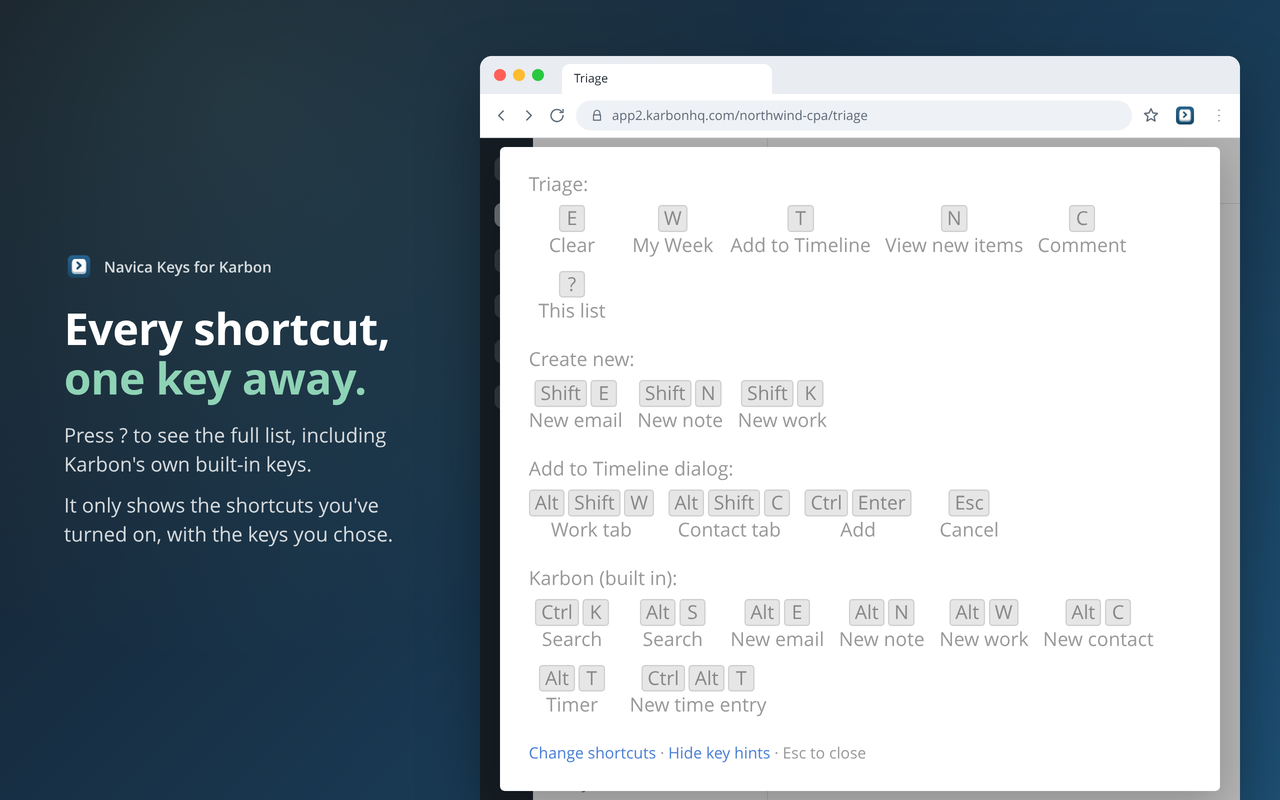
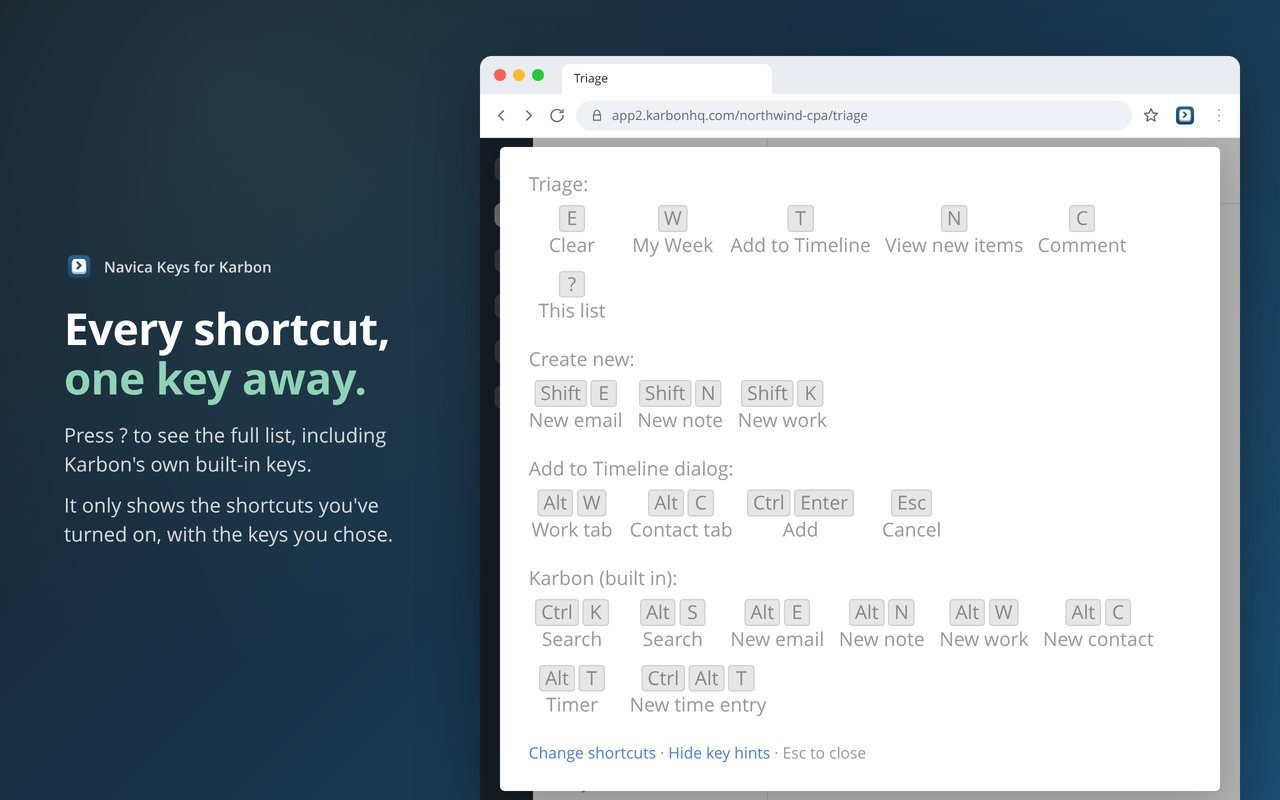
Put reply chips inside their buttons, dim toolbar chips under dialogs, Alt+W/C dialog tabs
- Reply, Reply to All and Forward show their key chip at the end of the button.
- Toolbar chips in the floating layer dim with Karbon's dialog backdrop (or hide
  under anything solid), since Karbon's dialogs sit below that layer.
- Add to Timeline Work/Contact tab keys are now Alt+W / Alt+C (settings v6
  migrates the old Alt+Shift defaults).
- 0.9.3; store listing record, docs and screenshots updated.

Changed region(s): [[0.4062, 0.5938, 0.7812, 0.6875]]

diff --git a/src/content.js b/src/content.js
@@ -310,6 +310,11 @@ const STYLE = `
 }
 .ktk-key--under .ktk-cap { min-width: 13px; padding: 0 3px; }
 .ktk-key--inline { margin: 0 0 0 6px; vertical-align: middle; }
+/* Reply / Reply to All / Forward: chip at the end of the button. The icon-only
+   buttons are a fixed 32px square, so let them grow to fit it. */
+.ktk-key--button { gap: 1px; font-size: 10px; line-height: 13px; }
+.ktk-key--button .ktk-cap { min-width: 13px; padding: 0 3px; }
+[data-e2e^="button__triageStickyMenu__"]:has(> .ktk-key--button) { width: auto; padding: 0 8px; gap: 6px; }
 /* Create new (+) menu: chip at the right edge, before Karbon's own Alt hint. */
 .ktk-key--menu { order: 1; margin-left: auto; }
 [role="menuitem"]:has(> .ktk-key--menu) > [data-slot="dropdown-menu-shortcut"] { order: 2; margin-left: 8px; }
@@ -357,9 +362,10 @@ const HINT_TARGETS = {
   saveToLater: [() => toolbarButton(SELECTORS.saveToLaterButton), 'after', 'toolbar'],
   reminder: [() => toolbarButton(SELECTORS.reminderButton), 'after', 'toolbar'],
   assign: [() => toolbarButton(SELECTORS.assignButton), 'after', 'toolbar'],
-  reply: [() => toolbarButton(SELECTORS.replyButton), 'after', 'toolbar'],
-  replyAll: [() => toolbarButton(SELECTORS.replyAllButton), 'after', 'toolbar'],
-  forward: [() => toolbarButton(SELECTORS.forwardButton), 'after', 'toolbar'],
+  // Reply/Forward are plain <button>s, so the chip sits inside, at the end.
+  reply: [() => toolbarButton(SELECTORS.replyButton), 'inside', 'button'],
+  replyAll: [() => toolbarButton(SELECTORS.replyAllButton), 'inside', 'button'],
+  forward: [() => toolbarButton(SELECTORS.forwardButton), 'inside', 'button'],
   comment: [() => toolbarButton(SELECTORS.commentButton), 'after', 'toolbar'],
   addToWeek: [() => document.querySelector(SELECTORS.addToWeekButton), 'after', 'inline'],
   addToNextWeek: [() => document.querySelector(SELECTORS.addToWeekButton), 'after', 'inline'],
@@ -411,6 +417,26 @@ function chipRunAfter(target) {
   return run;
 }
 
+// The layer sits above Karbon's page, so a Karbon dialog's backdrop doesn't
+// cover the chips. Look at what's stacked over the button's centre: dim the
+// chip by any see-through backdrop there, and hide it under anything solid.
+function shadeLikeTarget(chip, target, rect) {
+  let shade = 1;
+  let covered = false;
+  const hits = document.elementsFromPoint(rect.left + rect.width / 2, rect.top + rect.height / 2);
+  for (const el of hits) {
+    if (el === target || el.contains(target)) break;
+    if (target.contains(el)) continue;
+    const alpha = Number(getComputedStyle(el).backgroundColor.match(/[\d.]+/g)?.[3] ?? 1);
+    if (alpha >= 1) { covered = true; break; }
+    shade *= 1 - alpha;
+  }
+  const filter = shade < 1 ? `brightness(${shade.toFixed(2)})` : '';
+  const visibility = covered ? 'hidden' : '';
+  if (chip.style.filter !== filter) chip.style.filter = filter;
+  if (chip.style.visibility !== visibility) chip.style.visibility = visibility;
+}
+
 function chipLayer() {
   let layer = document.querySelector('.ktk-layer');
   if (!layer) {
@@ -433,6 +459,7 @@ function placeUnderChip(id, target) {
     layer.append(chip);
   }
   setKeys(chip, settings.shortcuts[id].binding);
+  shadeLikeTarget(chip, target, rect);
   const left = `${Math.round(rect.left + rect.width / 2)}px`;
   const top = `${Math.round(rect.bottom - 3)}px`;
   if (chip.style.left !== left) chip.style.left = left;

diff --git a/src/shared.js b/src/shared.js
@@ -33,8 +33,8 @@
     { id: 'newEmail', short: 'New email', group: 'create', label: 'New email', binding: 'E', enabled: true, hint: true },
     { id: 'newNote', short: 'New note', group: 'create', label: 'New note', binding: 'N', enabled: true, hint: true },
     { id: 'newWork', short: 'New work', group: 'create', label: 'New work', binding: 'K', enabled: true, hint: true },
-    { id: 'workTab', short: 'Work tab', group: 'dialog', label: 'Switch to the Work tab', binding: 'Alt+Shift+w', enabled: true, hint: true },
-    { id: 'contactTab', short: 'Contact tab', group: 'dialog', label: 'Switch to the Contact tab', binding: 'Alt+Shift+c', enabled: true, hint: true },
+    { id: 'workTab', short: 'Work tab', group: 'dialog', label: 'Switch to the Work tab', binding: 'Alt+w', enabled: true, hint: true },
+    { id: 'contactTab', short: 'Contact tab', group: 'dialog', label: 'Switch to the Contact tab', binding: 'Alt+c', enabled: true, hint: true },
     { id: 'dialogAdd', short: 'Add', group: 'dialog', label: 'Add', binding: 'Ctrl+Enter', enabled: true, hint: true },
     { id: 'dialogCancel', short: 'Cancel', group: 'dialog', label: 'Cancel', binding: 'Escape', enabled: true, hint: true, fixed: true },
   ];
@@ -72,7 +72,7 @@
   // Defaults that changed: a saved binding still equal to the old default
   // moves to the new one (so people who never changed it get the fix).
   // A migration is { id: [oldDefault, newDefault] } or a function of the settings.
-  const SETTINGS_VERSION = 5;
+  const SETTINGS_VERSION = 6;
   const MIGRATIONS = {
     2: { reply: ['r', 'R'], replyAll: ['R', 'r'], workTab: ['Alt+w', 'Alt+Shift+w'], contactTab: ['Alt+c', 'Alt+Shift+c'] },
     // E archives in Gmail, Outlook and Superhuman; # deletes in Gmail.
@@ -86,6 +86,9 @@
     5: (s) => {
       for (const id of ['newEmail', 'newNote', 'newWork']) if (s.shortcuts?.[id]) s.shortcuts[id].hint = true;
     },
+    // 0.9.3: the dialog tabs drop Shift. Karbon's Alt+W/Alt+C (New work/contact)
+    // are only taken over while the Add to Timeline dialog is open.
+    6: { workTab: ['Alt+Shift+w', 'Alt+w'], contactTab: ['Alt+Shift+c', 'Alt+c'] },
   };
 
   const DEFAULTS = {

diff --git a/store/screenshots/frame.js b/store/screenshots/frame.js
@@ -42,6 +42,10 @@ const EMAILS = [
 
 function triage(s) {
   const btn = (id, icon) => `<span class="btn">${svg(I[icon])}${id && shows(s, id) ? chip(chipText(s, id), 'under') : ''}</span>`;
+  // Reply / Reply All / Forward carry their chip inside the button, like content.js.
+  const endBtn = (id, icon) => shows(s, id)
+    ? `<span class="btn btn--end">${svg(I[icon])}${chip(chipText(s, id), 'button')}</span>`
+    : btn(id, icon);
   const rows = EMAILS.map(([who, when, sub, snip], i) =>
     `<div class="row${i === 0 ? ' on' : ''}"><div class="who"><b>${who}</b><span>${when}</span></div><div class="sub">${sub}</div><div class="snip">${snip}</div></div>`).join('');
   const week = shows(s, 'addToWeek') ? chip(chipText(s, 'addToWeek'), 'inline') : '';
@@ -52,7 +56,7 @@ function triage(s) {
       <div class="new">View 3 new items${shows(s, 'viewNew') ? chip(chipText(s, 'viewNew'), 'inline') : ''}</div>${rows}</div>
     <div class="read">
       <div class="etools">${btn('assign', 'assign')}${btn('reminder', 'reminder')}${btn('saveToLater', 'later')}${btn('addToTimeline', 'work')}${btn('clear', 'clear')}
-        <span class="gap"></span>${btn('reply', 'reply')}${btn('replyAll', 'replyAll')}${btn('forward', 'forward')}${btn('comment', 'comment')}</div>
+        <span class="gap"></span>${endBtn('reply', 'reply')}${endBtn('replyAll', 'replyAll')}${endBtn('forward', 'forward')}${btn('comment', 'comment')}</div>
       <div class="mail"><h1>Q3 payroll documents for review</h1>
         <div class="from"><span class="av">DW</span><div><b>Dana Whitfield</b><small>to Bookkeeping · 9:41 AM</small></div></div>
         <div class="tray"><span>Northwind Bakery</span><span>·</span><a>Add to My Week${week}</a></div>

diff --git a/store/screenshots/shot3-timeline.html b/store/screenshots/shot3-timeline.html
@@ -11,7 +11,7 @@
   <p>Press T to open Add to Timeline with the search ready. Type a client or work name and add it without reaching for the mouse.</p>
   <p>Switch between Work and Contact from the keyboard, even while you type.</p>
 </div>
-<div class="browser" data-tab="Triage" data-url="app2.karbonhq.com/northwind-cpa/triage" data-scene="triage" data-overlay="dialog" data-off="dialogAdd" data-keys="workTab:w contactTab:c"></div>
+<div class="browser" data-tab="Triage" data-url="app2.karbonhq.com/northwind-cpa/triage" data-scene="triage" data-overlay="dialog" data-off="dialogAdd"></div>
 <script src="../src/shared.js"></script>
 <script src="frame.js"></script>
 </body>

diff --git a/store/screenshots/shots.css b/store/screenshots/shots.css
@@ -56,6 +56,7 @@ body { position:relative; font:16px/1.45 system-ui, -apple-system, "Segoe UI", s
 .etools { display:flex; align-items:center; gap:4px; padding:10px 16px 14px; border-bottom:1px solid var(--line); }
 .etools .gap { flex:1; }
 .btn { position:relative; width:32px; height:30px; display:grid; place-items:center; border-radius:6px; }
+.btn--end { width:auto; display:flex; gap:6px; padding:0 8px; }
 .btn svg { width:18px; height:18px; fill:none; stroke:#4b5563; stroke-width:1.8; stroke-linecap:round; stroke-linejoin:round; }
 .mail { padding:18px 20px; }
 .mail h1 { font-size:19px; margin:0 0 10px; color:var(--fg); }

diff --git a/CLAUDE.md b/CLAUDE.md
@@ -17,9 +17,9 @@ Chrome extension (Manifest V3, no build step) that adds keyboard shortcuts and o
 - Every shortcut presses Karbon's own button rather than calling its API, so Karbon updates the list itself (it auto-advances after Clear).
 - The open email is the row whose inner `[role=button]` has `khq-bg-sentiment-action-tint`. Toolbar buttons share `data-e2e` values with the row hover icons, so look for the ones outside `[data-triage-list-item-id]`.
 - Many Karbon buttons are `<khq-button>` web components: click the `button` in their `shadowRoot`, and don't put children inside them (there's no slot, so they won't render).
-- Toolbar hint chips float in a fixed `.ktk-layer` centred under each icon so Karbon's toolbar layout is never changed. Chips on links and text buttons sit inline beside them. Each chip is a row of key boxes (`.ktk-cap`), one per key with no `+`, like Karbon's own tooltips; the boxes use Karbon's Help modal colours (`#e6e6e6`, Metric font) with a faint outline. `formatBinding` (`Alt + W`) is only for plain-text messages.
+- Toolbar icon chips float in a fixed `.ktk-layer` centred under each icon so Karbon's toolbar layout is never changed. Karbon's dialogs live inside a stacking context below that layer, so `shadeLikeTarget` checks what covers each button and dims the chip by a see-through backdrop (or hides it under something solid). Reply, Reply to All and Forward are plain `<button>`s, so their chips go inside, at the end. Chips on links and text buttons sit inline beside them. Each chip is a row of key boxes (`.ktk-cap`), one per key with no `+`, like Karbon's own tooltips; the boxes use Karbon's Help modal colours (`#e6e6e6`, Metric font) with a faint outline. `formatBinding` (`Alt + W`) is only for plain-text messages.
 - "Add to My Week: next week" adds the email, then picks `button__listItem__week-1` from the This Week picker. Karbon re-renders the side tray after the save, so it waits and retries.
-- Default keys must not clash with Karbon's built-ins (`Ctrl+K`, `Alt+S/E/N/W/C/T`, `Ctrl+Alt+T`) or common Chrome keys (`BROWSER_SHORTCUTS`). Prefer single keys, then Alt. R is Reply to All and Shift+R is Reply.
+- Default keys must not clash with Karbon's built-ins (`Ctrl+K`, `Alt+S/E/N/W/C/T`, `Ctrl+Alt+T`), except the Add to Timeline dialog's Alt+W/Alt+C tab keys, which only apply while that dialog is open, or common Chrome keys (`BROWSER_SHORTCUTS`). Prefer single keys, then Alt. R is Reply to All and Shift+R is Reply.
 - The `create` group (Shift+E/N/K: new email, note, work) works on any Karbon page: each opens Karbon's Create new (+) menu and clicks the item. It shares the page with the triage group, so `findConflicts` checks the two together. Work is K because Shift+W is My Week: next week.
 
 ## Testing

diff --git a/CHROMEWEBSTORE.md b/CHROMEWEBSTORE.md
@@ -150,6 +150,7 @@ https://navica.llc/tools/navica-keys/ (also the manifest `homepage_url`)
 
 | Version | Date | Changes | Status |
 |---------|------|---------|--------|
+| 0.9.3 | 2026-11-12 | Reply, Reply to All and Forward show their key chip inside the button instead of under it. Toolbar key chips dim with the page behind Karbon's dialogs. The Add to Timeline tab keys are now Alt+W and Alt+C (they only take over Karbon's New work/New contact while that dialog is open); if you never changed them, they move automatically. | Draft |
 | 0.9.2 | 2026-11-12 | Store name is now "Navica Keys for Karbon (beta)", without the Triage tagline, since shortcuts will cover more than Triage. | Pending review |
 | 0.9.1 | 2026-11-12 | New email, New note and New work in Karbon's + menu show their Shift+E/N/K key chips again, next to Karbon's own Alt key. | Draft |
 | 0.9.0 | 2026-11-12 | New email, note and work are now one key each on any Karbon page: Shift+E, Shift+N and Shift+K. They replace the `+` then letter menu shortcuts (Karbon's own Alt+C and Ctrl+Alt+T still cover Contact and Time Entry). | Draft |

diff --git a/README.md b/README.md
@@ -13,7 +13,7 @@ Default shortcuts (all changeable in Settings):
 | `c` | Add a comment to the open email |
 | `Shift + E` / `Shift + N` / `Shift + K` | New email / New note / New work, on any Karbon page (opens Karbon's Create new menu and picks the item in one step) |
 | `?` | Show the shortcut list (also lists Karbon's built-in keys) |
-| `Alt + Shift + W` / `Alt + Shift + C` | In the Add to Timeline dialog: Work / Contact tab (works while typing) |
+| `Alt + W` / `Alt + C` | In the Add to Timeline dialog: Work / Contact tab (works while typing) |
 | `Ctrl + Enter` | In the Add to Timeline dialog: Add (`Esc` cancels, natively) |
 
 Off by default, ready to turn on: next week (`Shift + W`), next/previous email (`j`/`k`), Save to Later (`l`), Add Reminder (`b`), Assign (`a`), Reply to All (`r`), Reply (`Shift + R`), Forward (`f`).
